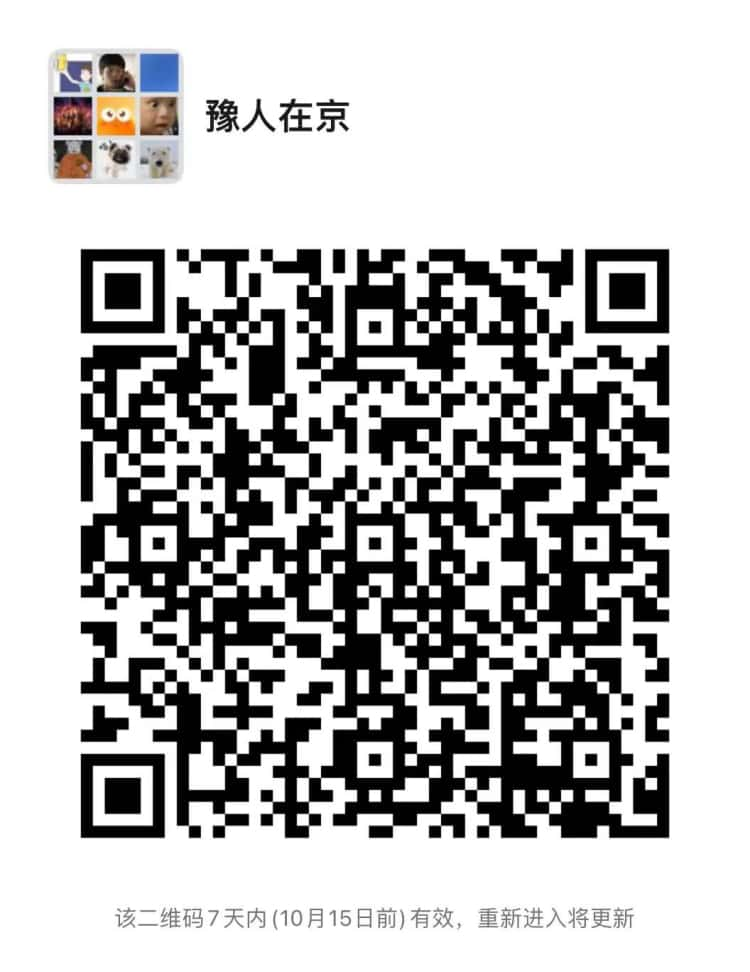
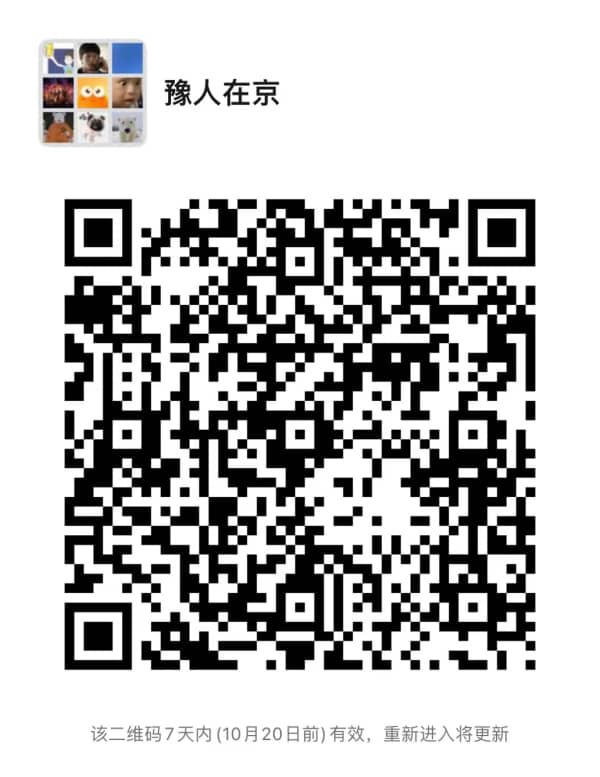
二维码更新

diff --git a/WeChat-YuRenZaiJing/index.html b/WeChat-YuRenZaiJing/index.html
@@ -1,6 +1,6 @@
 <!--
  * @Date: 2022-10-09 10:13:52
- * @LastEditTime: 2022-10-09 10:44:15
+ * @LastEditTime: 2022-10-13 09:28:43
  * @Author: WangYongJie
  * @Private-email: admin@xiaodongxier.com
 -->
@@ -18,7 +18,7 @@
     <meta property="og:description" content="河南人在北京交流群，闲聊，八卦，分享，学习，交流...">
     <meta name="keywords" content="河南人在北京交流群，闲聊，八卦，分享，学习，交流...">
     <link rel="shortcut icon" href="../static/img/favicon.ico" type="image/x-icon">
-    <title>豫人在京</title>
+    <title>豫人在京｜微信交流群</title>
     <link rel="stylesheet" href="../static/css/reset.css">
     <script>
       var _hmt = _hmt || [];
@@ -34,7 +34,7 @@
 </head>
 <body>
   <div id="app" class="col">
-    <img src="./QrCode/WeChat.jpeg?20221008" alt="豫人在京交流群">
+    <img src="./QrCode/WeChat.jpeg?20221013" alt="豫人在京交流群">
   </div>
 </body>
 </html>
